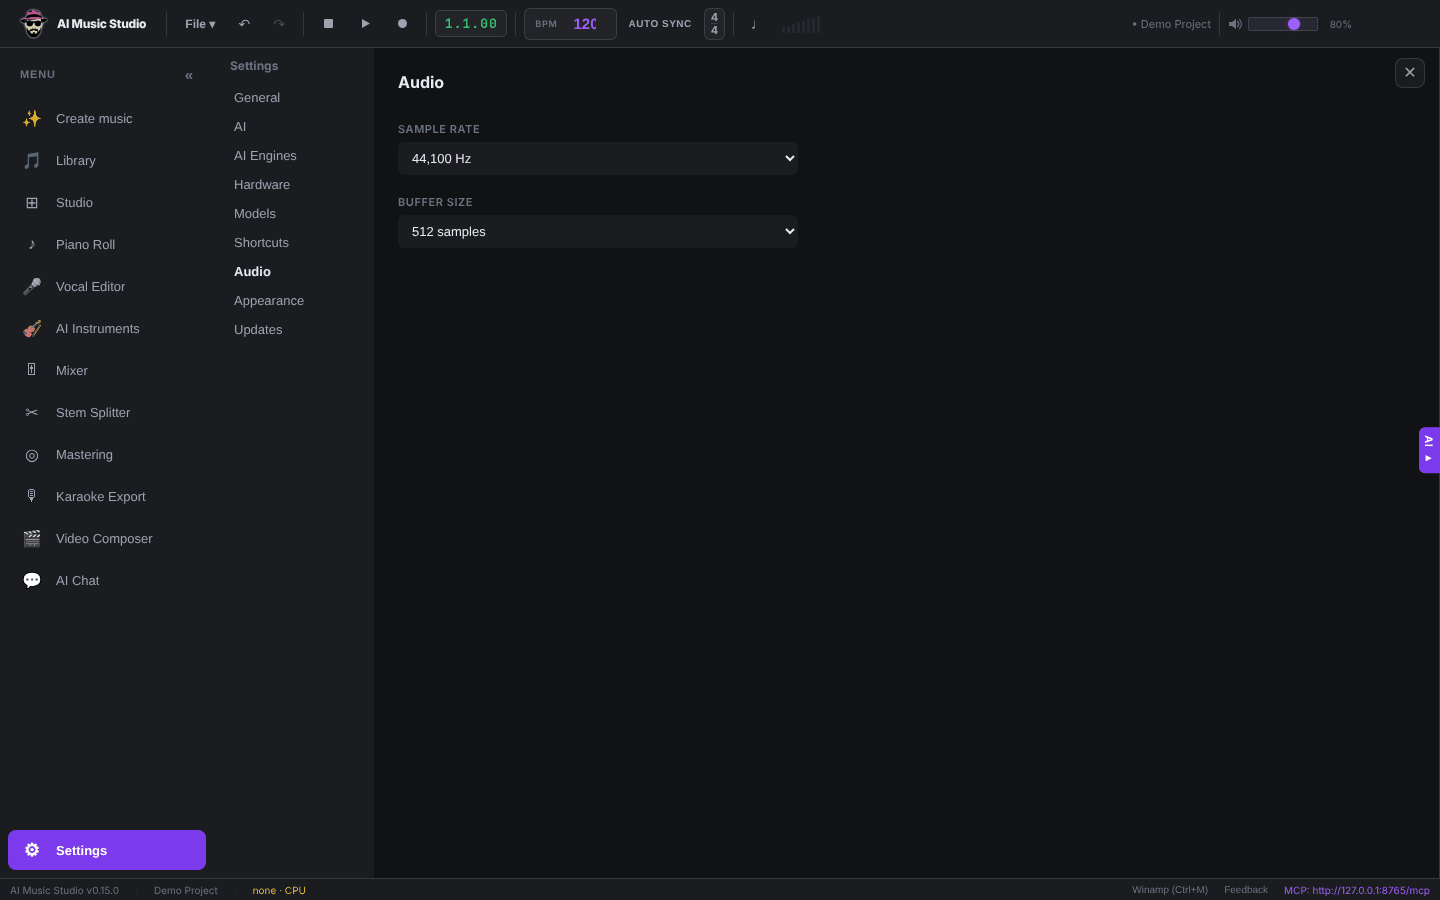
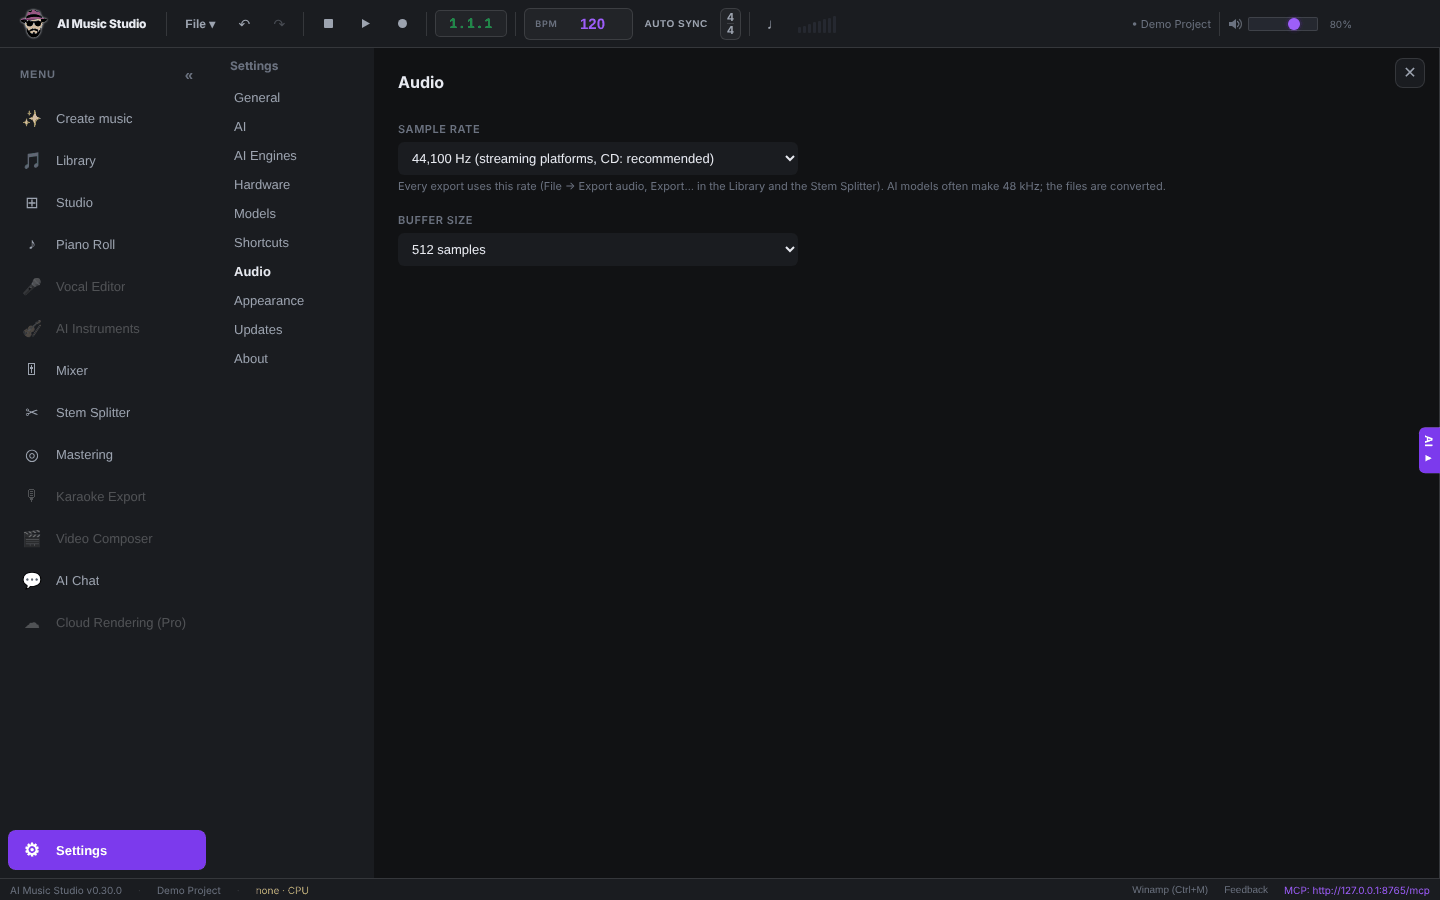
0.30.1: current screenshots on the project page; Studio drop zone no longer covers return tracks; mastering EQ controls grouped
Claude-Session: https://claude.ai/code/session_013zCgTr6dt9d3xsck6W1V2X

diff --git a/apps/desktop/src/renderer/src/components/mastering/MasterRack.tsx b/apps/desktop/src/renderer/src/components/mastering/MasterRack.tsx
@@ -8,6 +8,7 @@ import { EqCurve } from './EqCurve'
 
 const card: React.CSSProperties = { background: 'var(--bg-tertiary)', borderRadius: 8, padding: 10 }
 const small: React.CSSProperties = { fontSize: 10, padding: '1px 7px' }
+const grp: React.CSSProperties = { display: 'flex', flexDirection: 'column', gap: 3, padding: 6, borderRadius: 6, background: 'rgba(255,255,255,0.03)' }
 
 function Knob({ name, value, min, max, step, unit, onChange, log, title, off }: {
   name: string; value: number; min: number; max: number; step: number; unit?: string
@@ -34,20 +35,27 @@ function SlotBody({ slot, set }: { slot: Slot; set: (s: Slot) => void }): React.
     return (
       <div style={{ display: 'flex', flexDirection: 'column', gap: 6 }}>
         <EqCurve p={p} />
-        <div style={{ display: 'grid', gridTemplateColumns: 'repeat(auto-fit, minmax(240px, 1fr))', columnGap: 14, rowGap: 4 }}>
-        <Knob name="Low cut" off={!p.lowCut} value={p.lowCut || 10} min={10} max={300} step={1} unit="Hz" log onChange={(v) => u('lowCut', v <= 10 ? 0 : v)} title="High-pass: removes rumble below this frequency (all the way left: off)" />
-        <Knob name="Low shelf" value={p.lowF} min={30} max={500} step={1} unit="Hz" log onChange={(v) => u('lowF', v)} />
-        <Knob name="  gain" value={p.lowG} min={-12} max={12} step={0.5} unit="dB" onChange={(v) => u('lowG', v)} />
-        {([1, 2, 3] as const).map((n) => (
-          <React.Fragment key={n}>
-            <Knob name={`Band ${n}`} value={p[`p${n}F`]} min={40} max={16000} step={1} unit="Hz" log onChange={(v) => u(`p${n}F`, v)} />
-            <Knob name="  gain" value={p[`p${n}G`]} min={-12} max={12} step={0.5} unit="dB" onChange={(v) => u(`p${n}G`, v)} />
-            <Knob name="  width (Q)" value={p[`p${n}Q`]} min={0.3} max={8} step={0.1} onChange={(v) => u(`p${n}Q`, v)} />
-          </React.Fragment>
-        ))}
-        <Knob name="High shelf" value={p.highF} min={2000} max={18000} step={1} unit="Hz" log onChange={(v) => u('highF', v)} />
-        <Knob name="  gain" value={p.highG} min={-12} max={12} step={0.5} unit="dB" onChange={(v) => u('highG', v)} />
-        <Knob name="High cut" off={!p.highCut} value={p.highCut || 22000} min={5000} max={22000} step={1} unit="Hz" log onChange={(v) => u('highCut', v >= 21900 ? 0 : v)} title="Low-pass (all the way right: off)" />
+        <div style={{ display: 'grid', gridTemplateColumns: 'repeat(auto-fit, minmax(240px, 1fr))', columnGap: 14, rowGap: 8 }}>
+          {/* each filter's controls stay together */}
+          <div style={grp}>
+            <Knob name="Low cut" off={!p.lowCut} value={p.lowCut || 10} min={10} max={300} step={1} unit="Hz" log onChange={(v) => u('lowCut', v <= 10 ? 0 : v)} title="High-pass: removes rumble below this frequency (all the way left: off)" />
+            <Knob name="High cut" off={!p.highCut} value={p.highCut || 22000} min={5000} max={22000} step={1} unit="Hz" log onChange={(v) => u('highCut', v >= 21900 ? 0 : v)} title="Low-pass (all the way right: off)" />
+          </div>
+          <div style={grp}>
+            <Knob name="Low shelf" value={p.lowF} min={30} max={500} step={1} unit="Hz" log onChange={(v) => u('lowF', v)} />
+            <Knob name="  gain" value={p.lowG} min={-12} max={12} step={0.5} unit="dB" onChange={(v) => u('lowG', v)} />
+          </div>
+          {([1, 2, 3] as const).map((n) => (
+            <div key={n} style={grp}>
+              <Knob name={`Band ${n}`} value={p[`p${n}F`]} min={40} max={16000} step={1} unit="Hz" log onChange={(v) => u(`p${n}F`, v)} />
+              <Knob name="  gain" value={p[`p${n}G`]} min={-12} max={12} step={0.5} unit="dB" onChange={(v) => u(`p${n}G`, v)} />
+              <Knob name="  width (Q)" value={p[`p${n}Q`]} min={0.3} max={8} step={0.1} onChange={(v) => u(`p${n}Q`, v)} />
+            </div>
+          ))}
+          <div style={grp}>
+            <Knob name="High shelf" value={p.highF} min={2000} max={18000} step={1} unit="Hz" log onChange={(v) => u('highF', v)} />
+            <Knob name="  gain" value={p.highG} min={-12} max={12} step={0.5} unit="dB" onChange={(v) => u('highG', v)} />
+          </div>
         </div>
       </div>
     )

diff --git a/apps/desktop/src/renderer/src/dev/browserApi.ts b/apps/desktop/src/renderer/src/dev/browserApi.ts
@@ -41,8 +41,11 @@ if (!w.api) {
   w.api = new Proxy({}, { get: (_, k: string) => ns(k) })
   w.__browserMem = mem
   // browser tests only: read the stores from Playwright (window.__ams.project.getState())
-  void Promise.all([import('../stores/project.store'), import('../stores/audio.store')]).then(([p, a]) => {
-    (window as unknown as { __ams: unknown }).__ams = { project: p.useProjectStore, audio: a.useAudioStore }
+  void Promise.all([import('../stores/project.store'), import('../stores/audio.store'), import('../stores/ui.store'),
+    import('../stores/mastering.store'), import('../audio/engine')]).then(([p, a, u, m, e]) => {
+    (window as unknown as { __ams: unknown }).__ams = {
+      project: p.useProjectStore, audio: a.useAudioStore, ui: u.useUIStore, mastering: m.useMasteringStore, loadBuffer: e.loadBuffer,
+    }
   })
 }
 export {}

diff --git a/apps/desktop/src/renderer/src/components/timeline/Timeline.tsx b/apps/desktop/src/renderer/src/components/timeline/Timeline.tsx
@@ -707,6 +707,8 @@ export function Timeline({ fill = false }: { fill?: boolean }): React.ReactEleme
             )}
 
             {rows.map(renderRow)}
+            {/* room for the "new track" drop zone below the last track, so it does not cover the return tracks */}
+            {project.tracks.length > 0 && returns.length > 0 && <div style={{ height: 48 }} />}
             {returns.map((r) => <ReturnRow key={r.id} r={r} />)}
 
             {/* the lane area (for coordinates) with bar lines, the loop range, the frame and the playhead */}

diff --git a/README.md b/README.md
@@ -69,7 +69,7 @@ A full arrangement studio in the app, with the shortcuts of **Ableton Live 12** 
 *Shown with demo content: example songs, a demo project and a PC without AI engines installed yet.*
 
 <img src="docs/screenshots/studio.png" alt="Studio" width="100%">
-**Studio** – arrangement with loop and markers, automation lane, tempo-synced loops pasted one after the other, MIDI clip, reverb return track.
+**Studio** – arrangement with loop and markers, volume and pan automation lanes, effects on a track (EQ, compressor), tempo-synced loops pasted one after the other, MIDI clip, reverb return track.
 
 <img src="docs/screenshots/create-studio.png" alt="Create music" width="100%">
 **Create music** – describe the style, write lyrics, pick a model and make a song or a seamless loop (1–16 bars). Simple and Studio mode.
@@ -80,18 +80,24 @@ A full arrangement studio in the app, with the shortcuts of **Ableton Live 12** 
 | | |
 |---|---|
 | <img src="docs/screenshots/piano-roll.png" alt="Piano Roll" width="100%"><br>**Piano Roll** – draw, move and quantize MIDI notes | <img src="docs/screenshots/mixer.png" alt="Mixer" width="100%"><br>**Mixer** – faders, pan, mute/solo, level meters, master |
-| <img src="docs/screenshots/vocal-editor.png" alt="Vocal Editor" width="100%"><br>**Vocal Editor** – voices and lyrics for AI singing (in development) | <img src="docs/screenshots/instruments.png" alt="AI Instruments" width="100%"><br>**AI Instruments** – instruments for MIDI tracks (in development) |
+| <img src="docs/screenshots/vocal-editor.png" alt="Vocal Editor" width="100%"><br>**Vocal Editor** – voices and lyrics for AI singing (coming soon) | <img src="docs/screenshots/instruments.png" alt="AI Instruments" width="100%"><br>**AI Instruments** – instruments for MIDI tracks (coming soon) |
 | <img src="docs/screenshots/stem-splitter.png" alt="Stem Splitter" width="100%"><br>**Stem Splitter** – vocals, drums, bass and more with Demucs | <img src="docs/screenshots/mastering.png" alt="Mastering" width="100%"><br>**Mastering** – chain, loudness target, meters before and after, export in every format |
-| <img src="docs/screenshots/karaoke.png" alt="Karaoke Export" width="100%"><br>**Karaoke Export** – word timing, .lrc and lyric videos | <img src="docs/screenshots/video-composer.png" alt="Video Composer" width="100%"><br>**Video Composer** – music that follows the cuts of a video |
-| <img src="docs/screenshots/ai-chat.png" alt="AI Chat" width="100%"><br>**AI Chat** – Claude or ChatGPT as a music assistant (your own API key) | <img src="docs/screenshots/settings-ai-engines.png" alt="Settings → AI Engines" width="100%"><br>**Settings → AI Engines** – install the local AI models with one click |
+| <img src="docs/screenshots/karaoke.png" alt="Karaoke Export" width="100%"><br>**Karaoke Export** – word timing, .lrc and lyric videos (coming soon) | <img src="docs/screenshots/video-composer.png" alt="Video Composer" width="100%"><br>**Video Composer** – music that follows the cuts of a video (coming soon) |
+| <img src="docs/screenshots/ai-chat.png" alt="AI Chat" width="100%"><br>**AI Chat** – Claude, ChatGPT, Gemini, Grok or a local model as a music assistant that can also make songs | <img src="docs/screenshots/settings-ai-engines.png" alt="Settings → AI Engines" width="100%"><br>**Settings → AI Engines** – install the local AI models with one click |
 | <img src="docs/screenshots/settings-hardware.png" alt="Settings → Hardware" width="100%"><br>**Settings → Hardware** – what this PC can run, and how fast | <img src="docs/screenshots/settings-models.png" alt="Settings → Models" width="100%"><br>**Settings → Models** – downloaded models, sizes and the models folder |
-| <img src="docs/screenshots/settings-shortcuts.png" alt="Settings → Shortcuts" width="100%"><br>**Settings → Shortcuts** – Ableton Live 12 or Cubase key layout | <img src="docs/screenshots/settings-ai.png" alt="Settings → AI" width="100%"><br>**Settings → AI** – Claude or ChatGPT for the AI chat |
-| <img src="docs/screenshots/settings-general.png" alt="Settings → General" width="100%"><br>**Settings → General** – language and VST plugin folders | <img src="docs/screenshots/settings-audio.png" alt="Settings → Audio" width="100%"><br>**Settings → Audio** – sample rate and buffer size |
+| <img src="docs/screenshots/settings-shortcuts.png" alt="Settings → Shortcuts" width="100%"><br>**Settings → Shortcuts** – Ableton Live 12 or Cubase key layout | <img src="docs/screenshots/settings-ai.png" alt="Settings → AI" width="100%"><br>**Settings → AI** – Claude, ChatGPT, Gemini, Grok, Ollama or a local server for the AI chat |
+| <img src="docs/screenshots/settings-general.png" alt="Settings → General" width="100%"><br>**Settings → General** – language and VST plugin folders | <img src="docs/screenshots/settings-audio.png" alt="Settings → Audio" width="100%"><br>**Settings → Audio** – export sample rate (44.1 kHz for platforms) and buffer size |
 | <img src="docs/screenshots/settings-appearance.png" alt="Settings → Appearance" width="100%"><br>**Settings → Appearance** – dark or light theme | <img src="docs/screenshots/settings-updates.png" alt="Settings → Updates" width="100%"><br>**Settings → Updates** – automatic updates from GitHub releases |
 
 **Beta testers wanted** ([guide, German](docs/BETA.md)): we are looking for testers, especially with **NVIDIA cards**: open *Feedback → Record a detailed log*, reproduce the problem, then attach the saved log to a GitHub issue. Nothing is sent automatically.
 
 All changes of every version: [CHANGELOG.md](CHANGELOG.md)
+
+### New in 0.30.1
+
+- **Fix: in the Studio the "Drag a clip here for a new track" area covered the first return track** (e.g. Reverb). It now sits between the last track and the return tracks.
+- **Mastering:** the equalizer's controls are grouped per filter (low and high cut, low shelf, each band, high shelf), so frequency, gain and width of a band stay together.
+- The screenshots on the project page show the current version.
 
 ### New in 0.30.0
 

diff --git a/CHANGELOG.md b/CHANGELOG.md
@@ -3,6 +3,12 @@
 What changed in each version of AI Music Studio. The release workflow puts the section of the released version
 on its GitHub release page, so every version needs a `## <version>` section here before it is released.
 
+## 0.30.1
+
+- **Fix: in the Studio the "Drag a clip here for a new track" area covered the first return track** (e.g. Reverb). It now sits between the last track and the return tracks.
+- **Mastering:** the equalizer's controls are grouped per filter (low and high cut, low shelf, each band, high shelf), so frequency, gain and width of a band stay together.
+- The screenshots on the project page show the current version.
+
 ## 0.30.0
 
 **Mastering, rebuilt.** The Mastering page is now a full mastering workspace:
